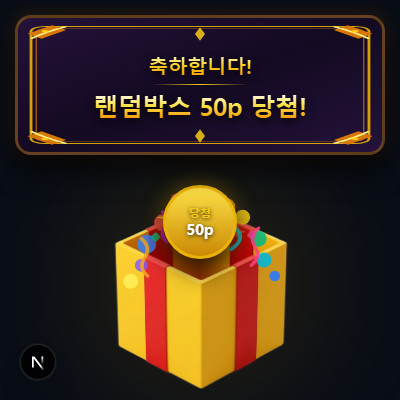
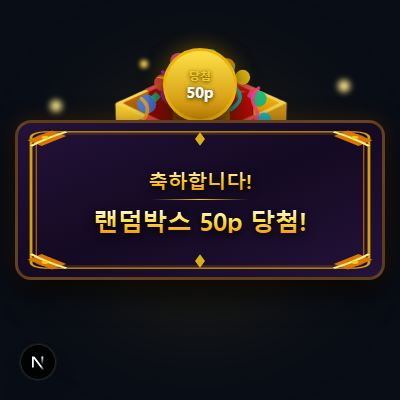
style: 럭키박스 배너 구도 롤백 및 z-index 오버레이 최종 보정 재발행

diff --git a/app/render-banners/page.tsx b/app/render-banners/page.tsx
@@ -174,10 +174,10 @@ function LuckyBoxBanner({ amount }: { amount: number }) {
       <div style={{ width: 400, height: 400, backgroundColor: '#090d16', position: 'relative', display: 'flex', alignItems: 'center', justifyContent: 'center', overflow: 'hidden' }}>
         
         {/* 아우라 빛 효과 */}
-        <div className="absolute w-52 h-52 rounded-full bg-yellow-500/15 blur-3xl" style={{ position: 'absolute', top: '180px' }} />
+        <div className="absolute w-52 h-52 rounded-full bg-yellow-500/15 blur-3xl" />
 
         {/* 선물 상자 이미지 (HTML) */}
-        <div className="relative w-48 h-52 select-none overflow-visible z-0" style={{ position: 'absolute', top: '190px' }}>
+        <div className="relative w-48 h-52 select-none overflow-visible z-0" style={{ position: 'absolute', top: '50px' }}>
           {/* 상자 몸통 (열린 상태 배너이므로 몸통만 표시) */}
           <img 
             src="/images/playground/random_box_bottom.png" 
@@ -187,7 +187,7 @@ function LuckyBoxBanner({ amount }: { amount: number }) {
         </div>
 
         {/* 폭죽 파티클 (정적 - SVG로 겹쳐 그림) */}
-        <svg viewBox="0 0 200 240" className="w-56 h-64 select-none relative overflow-visible z-10 pointer-events-none" style={{ position: 'absolute', top: '180px' }}>
+        <svg viewBox="0 0 200 240" className="w-56 h-64 select-none relative overflow-visible z-10 pointer-events-none" style={{ position: 'absolute', top: '40px' }}>
           {/* 폭죽 파티클 (정적 - 상자에서 위로 사방 부채꼴로 퍼져나감, 크기 상향 조정) */}
           {/* 원형 파티클 */}
           <circle cx="65" cy="40" r="8" fill="#ef4444" opacity="0.9" />
@@ -225,7 +225,7 @@ function LuckyBoxBanner({ amount }: { amount: number }) {
         <div 
           className="absolute left-1/2 -translate-x-1/2 pointer-events-none z-20 flex flex-col items-center justify-center"
           style={{
-            top: '185px', // 박스 입구 바로 위로 올림
+            top: '48px', // 박스 입구 바로 위로 올림
           }}
         >
           <div className="w-[74px] h-[74px] rounded-full bg-gradient-to-b from-yellow-300 to-yellow-600 border-[3.5px] border-yellow-500 shadow-[0_10px_25px_rgba(0,0,0,0.85),_0_0_20px_rgba(234,179,8,0.45)] flex flex-col items-center justify-center bg-[#1e1b4b]">
@@ -240,7 +240,7 @@ function LuckyBoxBanner({ amount }: { amount: number }) {
         <div className="absolute z-20 top-[60px] left-[140px] w-2 h-2 bg-amber-300 rounded-full blur-[2px] animate-pulse"></div>
 
         {/* 축하 배너 카드 */}
-        <BannerCard gameLabel="랜덤박스" rewardLabel={rewardLabel} className="top-[15px] h-[140px] z-[40]" />
+        <BannerCard gameLabel="랜덤박스" rewardLabel={rewardLabel} className="z-[40]" />
       </div>
     </div>
   );
